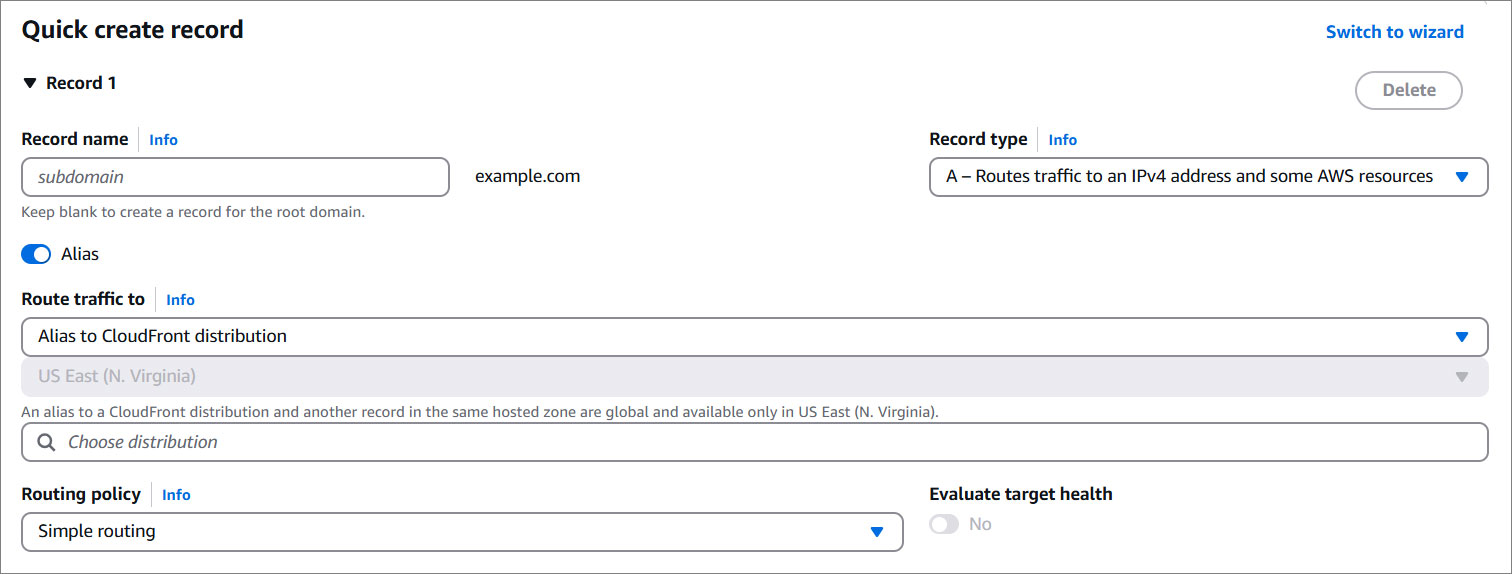
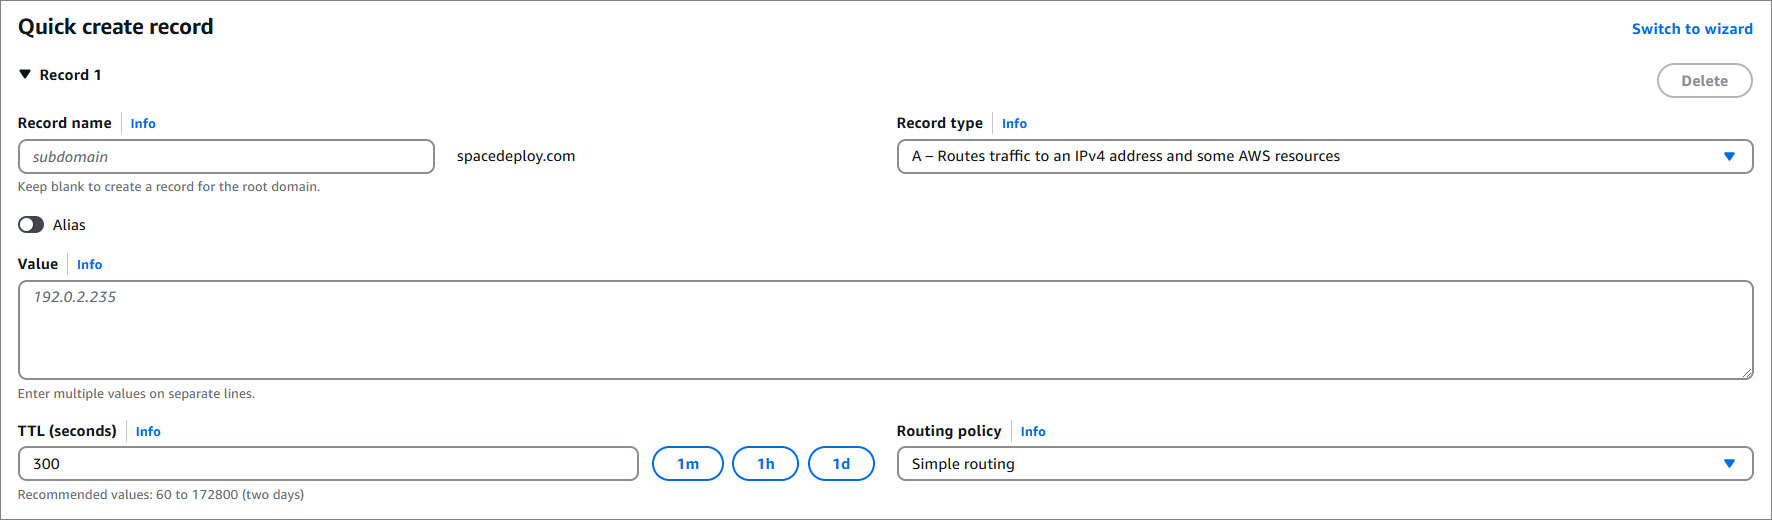
Update WP tutorials.

diff --git a/src/tutorials/add-wordpress-website-part-2/index.md b/src/tutorials/add-wordpress-website-part-2/index.md
@@ -1,40 +1,8 @@
-In part two, we’re cranking up the excitement! You’ll claim your domain, armor up your site with a shiny SSL/TLS certificate, and turbocharge performance with a CDN. Buckle up—the transformation is just getting started!
+Welcome to Part 2 of your WordPress website journey! In this section, we’ll explore the power of a Content Delivery Network (CDN). A CDN is a network of servers spread across the globe, designed to deliver your website’s content faster by storing copies of it closer to your visitors. This means they won’t have to wait as long for your site to load. By adding a CDN to your WordPress site, you'll boost load times, enhance security, and ensure smooth performance for your audience. It’s an essential tool for anyone looking to improve site speed and user experience!
 
-## Step 1: Set Up Your Domain
+## Request your certificate
 
-Now it’s time to stake your claim in the vast wilderness of the internet. Here’s how to tame your domain using AWS Route 53.
-
-1. Log in to your **AWS Management Console**.          
-
-2. Type **Route 53** into the search bar in the Services menu — your trusty GPS for all things AWS.
-
-3. In the Route 53 dashboard, click on **Hosted Zones** (your domain’s future home).
-
-<p><img src="/static/images/common/route-53/route-53-hosted-zones-nav.jpg" alt="Route 53 Left Navigation" style="width: 15%;"></p>
-
-4. Ready to build? Click **Create hosted zone** or choose an existing one if you’ve already started.
-
-<p><img src="/static/images/common/route-53/create-hosted-zones.jpg" alt="Route 53 Create hosted zone" style="width: 80%;"></p>
-
-5. In the **"Domain name"** field, type your chosen domain (e.g., example.com).
-
-<p><img src="/static/images/common/route-53/hosted-zones-config.jpg" alt="Route 53 Domain name" style="width: 80%;"></p>
-
-6. Select **Public hosted zone** because we are all about that public presence.
-
-<p><img src="/static/images/common/route-53/hosted-zones-config-type.jpg" alt="Route 53 Type" style="width: 80%;"></p>
-
-7. Click that glorious orange <span class="text-orange">**Create hosted zone**</span> button, and voilà!
-
-**Congrats!** Your domain is now set up and ready for action.
-
-!!!
-**Pro Tip:** Want to dig deeper? The [AWS Route 53 Documentation](https://docs.aws.amazon.com/Route53/latest/DeveloperGuide/Welcome.html) is your go-to treasure map for advanced configurations.
-!!!
-
-## Step 2: Request Your Certificate
-
-Let’s kick things off by securing your domain with a sleek new certificate!
+First, let’s make your site secure. An SSL/TLS certificate protects your website by encrypting information between your site and visitors. It also shows a “padlock” in the browser to let users know your site is safe. Let’s get that certificate set up!
 
 1. Pop into the AWS Management Console and search for **Certificate Manager** in the Services menu.
 
@@ -52,15 +20,13 @@ Let’s kick things off by securing your domain with a sleek new certificate!
 
 5. Give yourself a high-five and hit <span class="text-orange">**Next**</span>.
 
-## Step 3: Add a CDN
+## Add a CDN
 
 Time to give your site some turbo-charged speed with a Content Delivery Network (CDN).
 
-{% tabs %}
+### Step 1: Create stack
 
-{% tab title="Cloudformation" %}
-
-1. **Launch it:** Click the button below and let CloudFormation work its magic.
+Click the button below and let CloudFormation work its magic.
 
 <a href="https://us-east-1.console.aws.amazon.com/cloudformation/home?region=us-east-1#/stacks/create?stackName=wordpress-cdn&templateURL=https://wordpress-release.s3.us-east-1.amazonaws.com/cloudformation/cloudfront-wordpress.yaml" rel="noopener noreferrer" target="_blank" class="btn-orange-lg mb-2">LAUNCH CDN<span><svg xmlns="http://www.w3.org/2000/svg" viewBox="0 0 16 16" width="20" height="20" fill="#fff"><path d="M3.75 2h3.5a.75.75 0 0 1 0 1.5h-3.5a.25.25 0 0 0-.25.25v8.5c0 .138.112.25.25.25h8.5a.25.25 0 0 0 .25-.25v-3.5a.75.75 0 0 1 1.5 0v3.5A1.75 1.75 0 0 1 12.25 14h-8.5A1.75 1.75 0 0 1 2 12.25v-8.5C2 2.784 2.784 2 3.75 2Zm6.854-1h4.146a.25.25 0 0 1 .25.25v4.146a.25.25 0 0 1-.427.177L13.03 4.03 9.28 7.78a.751.751 0 0 1-1.042-.018.751.751 0 0 1-.018-1.042l3.75-3.75-1.543-1.543A.25.25 0 0 1 10.604 1Z"></path></svg></span></a>
 
@@ -70,11 +36,15 @@ Time to give your site some turbo-charged speed with a Content Delivery Network 
 
 <p><img src="/static/images/tutorials/wordpress/wordpress-create-stack-cdn.jpg" alt="WordPress Pro CDN Create Stack" style="width: 90%;"></p>
 
-2. **Name Your Stack:** Get creative—or keep it simple! Just make sure it’s 1–128 characters, starts with a letter, and skips the symbols.
+### Step 2: Name your stack & add details
+
+Pick a name that works for you—whether it’s fun, simple, or somewhere in between. Just make sure it’s between 1–128 characters, begins with a letter, and doesn’t include any special characters.
 
 <p><img src="/static/images/tutorials/wordpress/wordpress-cdn-stack-name.jpg" alt="WordPress Pro CDN Create Stack" style="width: 50%;"></p>
 
-3. **Fill in Parameters:** Add details like your domain name, certificate ARN, and CMS DNS. The wizard will guide you here.
+### Step 3: Customize your settings
+
+Add details like your domain name, certificate ARN, and CMS DNS. The wizard will guide you here.
 
 <p><img src="/static/images/tutorials/wordpress/wordpress-cdn-stack-parametes.jpg" alt="WordPress Pro CDN Parameters" style="width: 50%;"></p>
 
@@ -84,68 +54,41 @@ CloudFront Certificate ARN | The AWS Certification Manager certificate ARN for t
 Website Domain Name | The domain name of the Wordpress website (e.g. example.com).
 CMS DNS Name | The Wordpress DNS or IP used to login. To find the DNS navigate to **EC2,** click on the respective instance and copy the **Public IPv4 DNS.**
 
-4. **Advanced Options & Tags:** Optional but useful for organizing resources.
+### Step 4: Configure stack options
+
+Optional but useful for organizing resources.
 
 <p><img src="/static/images/quickstart/stack-advanced.jpg" alt="WordPress Pro advanced options" style="width: 50%;"></p>
 
-5. **Review & Submit:** Double-check everything and hit <span class="text-orange">Submit</span>.
+### Step 5: Review and create
 
-{% endtab %}
+Double-check everything and hit <span class="text-orange">**Submit**</span>.
 
-{% endtabs %}
+## Access your CMS
 
-## Step 4: Point Your Domain
-
-Claim your corner of the web using Route 53.
-
-1. Hop over to **Route 53** by searching for it in the Services menu.
-
-2. Find Hosted Zones and click <span class="text-orange">**Create Record**</span>.
-
-3. Enter the subdomain name (like `www` for `www.example.com`), choose A - Routes traffic to IPv4, enable Alias, and select your CloudFront distribution.
-
-<p><img src="/static/images/tutorials/wordpress/create-record.jpg" alt="WordPress Pro CDN Stack" style="width: 90%;"></p>
-
-Name   | Description
----    | ---
-Record Name | Enter the subdomain name but without the domain name. For example, to route traffic for www.example.com, enter only **www**.
-Record Type | Choose the applicable DNS record type. Select **A - Routes traffic to an IPv4 address and some AWS resources**.
-Alias | Enable **Alias** to show more options.
-Route traffic to | Select **Alias to CloudFront distribution**.
-Choose distribution | Select the corresponding CloudFront distribution.
-Routing policy | Select **Simple routing**.
-
-!!!
-**Pro Tip:** Confirm the correct CloudFront distribution by matching its domain name in the CloudFront dashboard.
-!!!
-
-## Step 5: Dive into Your Website
-
-It's time to unlock your WordPress dashboard and bring your website to life! Here's how:
+Now it’s time to log into your WordPress dashboard and start building your website! Here’s how:
 
 1. Head over to **CloudFormation** by typing it into the search bar in your AWS Management Console.
 
 2. Select your WordPress stack from the list.
 
-3. Navigate to the **Outputs** tab, where you'll find all the golden nuggets of information. Copy the **AdminUrl** value—it's your gateway to greatness.
+3. Navigate to the **Outputs** tab, where you'll find the essential details. Copy the **WebsiteURL** value — this is your ticket to your new website.
 
-<p><img src="/static/images/wordpress/wordpress-stack-outputs.jpg" alt="WordPress Pro Stack Outputs" style="width: 62%;"></p>
+<!-- <p><img src="/static/images/wordpress/wordpress-stack-outputs.jpg" alt="WordPress Pro Stack Outputs" style="width: 62%;"></p> -->
 
-4. Open your favorite browser, paste the AdminUrl, and bask in the glory of your WordPress front-end website.
+4. Open your browser and paste the WebsiteURL to see your WordPress front-end website live.
 
-!!!
-**Pro Tip:** Want to take full control? Simply tack on `/wp-admin` to your URL and log in using the credentials listed in the Outputs tab. It's your backstage pass to the WordPress magic.
-!!!
-
-**You're in!** Now it's time to start customizing, creating, and building the site of your dreams. Your digital journey awaits!
+5. For full control simply add `/wp-admin` to your URL and log in using the credentials listed in the Outputs tab.
 
 <hr>
 
-## Step 6: Use Your Fully Qualified Domain Name
+**Congratulations, you did it!** Your website is now fully optimized — blazing fast, secure, and equipped with all the tools to stand out in the digital world. With your sleek SSL certificate and lightning-fast CDN, you have built a solid foundation to impress and engage your visitors. Now it’s time to start customizing, creating, and bringing your vision to life. Get ready to take on the internet!
 
-Tired of typing an IP address to reach your site? Let’s make your Fully Qualified Domain Name (FQDN) the star of the show:
+<!-- ## Access your CMS
 
-1. Log in to **WordPress**. Head to your WordPress dashboard—your site’s command center.
+Now it’s time to log into your WordPress dashboard and start building your website! Here’s how: -->
+
+<!-- 1. Log in to **WordPress**. Head to your WordPress dashboard—your site’s command center.
 
 <p><img src="/static/images/wordpress/wordpress-login-screen.jpg" alt="WordPress Login Screen" style="width: 25%;"></p>
 
@@ -157,12 +100,6 @@ Tired of typing an IP address to reach your site? Let’s make your Fully Qualif
 
 4. Click <span class="text-blue">**Save Changes**</span>.
 
-5. Voilà! Your WordPress is now accessible through your custom FQDN.
-
-Time to bookmark that URL and show it off!
-
-<hr>
-
-**Congratulations, you did it!** Your website is now fully optimized—blazing fast, secure, and equipped with all the tools to stand out in the digital world. Whether it's the sleek SSL certificate or the lightning-fast CDN, you've set up a solid foundation that will have your visitors impressed and engaged. Get ready to take on the internet!
+5. Voilà! Your WordPress is now accessible through your custom FQDN. -->
 
 <!-- <p><img src="/static/images/tutorials/wordpress/wordpress-website.jpg" alt="WordPress Pro Website" style="width: 90%;"></p> -->

diff --git a/src/tutorials/add-wordpress-website part-1/index.md b/src/tutorials/add-wordpress-website part-1/index.md
@@ -1,10 +1,48 @@
-Welcome to your next big adventure! In this first part, we’ll focus on launching your WordPress CMS—the heart and soul of your website. This is where your journey begins, as we set up the foundation that will power your content, engage your audience, and bring your vision to reality!
+Ready to embark on the journey to your very own WordPress-powered website? In this guide, we’ll start by **creating a hosted zone** — staking your claim in the digital world. Then, we’ll move on to **launching WordPress**, **pointing your domain**, and finally, **accessing your WordPress instance** to bring your vision to life. Let’s dive in!
+
+## Create a hosted zone
+
+It’s time to stake your claim in the vast digital wilderness! Let’s use AWS Route 53 to make your domain official and get it ready for action.
+
+1. Log in to your **AWS Management Console**.          
+
+2. Type **Route 53** into the search bar in the Services menu — your trusty GPS for all things AWS.
+
+3. In the Route 53 dashboard, click on **Hosted Zones** (your domain’s future home).
+
+<p><img src="/static/images/common/route-53/route-53-hosted-zones-nav.jpg" alt="Route 53 Left Navigation" style="width: 15%;"></p>
+
+4. Ready to build? Click **Create hosted zone** or choose an existing one if you’ve already started.
+
+<p><img src="/static/images/common/route-53/create-hosted-zones.jpg" alt="Route 53 Create hosted zone" style="width: 80%;"></p>
+
+5. In the **"Domain name"** field, type your chosen domain (e.g., example.com).
+
+<p><img src="/static/images/common/route-53/hosted-zones-config.jpg" alt="Route 53 Domain name" style="width: 80%;"></p>
+
+6. Select **Public hosted zone** because we are all about that public presence.
+
+<p><img src="/static/images/common/route-53/hosted-zones-config-type.jpg" alt="Route 53 Type" style="width: 80%;"></p>
+
+7. Click that glorious orange <span class="text-orange">**Create hosted zone**</span> button, and voilà!
+
+**Congrats!** Your domain is now set up and ready for action.
+
+!!!warning Note:
+Once your hosted zone is created, make sure your domain is properly connected. Here’s what you’ll need to do:
+- **For domains registered with another registrar:** Check out the guide on [Making Amazon Route 53 the DNS service for an existing domain](https://docs.aws.amazon.com/Route53/latest/DeveloperGuide/MigratingDNS.html).
+- **For domains registered with Route 53:** Follow the steps in [Adding or changing name servers and glue records for a domain](https://docs.aws.amazon.com/Route53/latest/DeveloperGuide/domain-name-servers-glue-records.html).
+!!!
+
+!!!
+**Pro Tip:** Want to dig deeper? The [AWS Route 53 Documentation](https://docs.aws.amazon.com/Route53/latest/DeveloperGuide/Welcome.html) is your go-to treasure map for advanced configurations.
+!!!
 
 ## Launch WordPress Pro
 
-The first thing you need to do is to head over to the [AWS Marketplace](https://aws.amazon.com/marketplace/pp/prodview-l5326ck4qjosk?sr=0-4&ref_=beagle&applicationId=AWSMPContessa) and hit that <span class="text-orange">**Subscribe**</span> button. It’s like claiming your spot on the WordPress rocket. Then, come back here, and we’ll guide you through the next steps of your journey!
+The first step is simple — head over to the [AWS Marketplace](https://aws.amazon.com/marketplace/pp/prodview-l5326ck4qjosk?sr=0-4&ref_=beagle&applicationId=AWSMPContessa) and click that <span class="text-orange">**Subscribe**</span> button. It's like securing your seat on the WordPress rocket ship, ready for takeoff. Once you're done, come right back here, and we’ll guide you through the next stages of your adventure!
 
-To launch an instance, follow the CloudFormation Guide. Solodev makes it super simple — just click the Launch button below.
+Ready to launch your WordPress instance? Just follow the CloudFormation Guide. Solodev makes it a breeze — click the Launch button below, and let’s get started!
 
 <a href="https://us-east-1.console.aws.amazon.com/cloudformation/home?region=us-east-1#/stacks/create?stackName=wordpress-pro&templateURL=https://wordpress-release.s3.amazonaws.com/cloudformation/wordpress-pro-linux.yaml" rel="noopener noreferrer" target="_blank" class="btn-orange-lg mb-2">LAUNCH WORDPRESS <span><svg xmlns="http://www.w3.org/2000/svg" viewBox="0 0 16 16" width="20" height="20" fill="#fff"><path d="M3.75 2h3.5a.75.75 0 0 1 0 1.5h-3.5a.25.25 0 0 0-.25.25v8.5c0 .138.112.25.25.25h8.5a.25.25 0 0 0 .25-.25v-3.5a.75.75 0 0 1 1.5 0v3.5A1.75 1.75 0 0 1 12.25 14h-8.5A1.75 1.75 0 0 1 2 12.25v-8.5C2 2.784 2.784 2 3.75 2Zm6.854-1h4.146a.25.25 0 0 1 .25.25v4.146a.25.25 0 0 1-.427.177L13.03 4.03 9.28 7.78a.751.751 0 0 1-1.042-.018.751.751 0 0 1-.018-1.042l3.75-3.75-1.543-1.543A.25.25 0 0 1 10.604 1Z"></path></svg></span></a>
 
@@ -12,11 +50,11 @@ To launch an instance, follow the CloudFormation Guide. Solodev makes it super s
 
 Your CloudFormation template is locked and loaded — just click <span class="text-orange">**Next**</span> to kick things off.
 
-### Step 2: Name Your Stack & Add Details
+### Step 2: Name your stack & add details
 
 Give your stack a name (get creative or keep it simple), then fill in the setup parameters.
 
-### Step 3: Fine-Tune Your Settings
+### Step 3: Fine-tune your settings
 
 #### Network Settings:
 Choose your VPCID, PublicSubnet1ID, PublicSubnet2ID, and KeyName from the dropdowns. Need a refresher? You can [learn more about these here](/quickstart/cms/wordpress/#parameters).
@@ -34,15 +72,33 @@ This part is totally optional, so feel free to skip or explore as needed. If you
 Take a moment to review your settings and ensure everything looks good. Once you're confident, hit <span class="text-orange">**Submit**</span> — and just like that, you're on your way to launching your stack!
 
 !!!
-**Pro tip:** Take a deep breath and relax—this part’s a breeze, but a little patience goes a long way!
+**Pro tip:** Take a deep breath and relax — this part’s a breeze, but a little patience goes a long way!
 !!!
+
+## Point Your Domain
+
+Claim your corner of the web using Route 53.
+
+1. Hop over to **Route 53** by searching for it in the Services menu.
+
+2. Find Hosted Zones and click <span class="text-orange">**Create Record**</span>.
+
+3. Enter the subdomain name (like `www` for `www.example.com`), choose CNAME, and paste your IP.
+
+<p><img src="/static/images/tutorials/wordpress/create-record.jpg" alt="WordPress Pro CDN Stack" style="width: 90%;"></p>
+
+Name   | Description
+---    | ---
+Record Name | Enter the subdomain name but without the domain name. For example, to route traffic for www.example.com, enter only **www**.
+Record Type | Choose the applicable DNS record type. Select **CNAME - Routes traffic to another domain name and some AWS resources**.
+Value | Paste the **IPv4 address**. To find the DNS navigate to **EC2,** click on the respective instance and copy the **Public IPv4 DNS.**
 
 ## Access your WordPress instance
 
-Once your stack is up and running, it’s time to explore! Head to the **Outputs** tab, find the **AdminURL**, and click or copy it. Paste it into your browser, and there you go — your website is live and ready for action!
+Once your stack is up and running, it’s time to explore! Head to your browser and paste your website URL — your WordPress site is live and ready for action!
 
-<hr>
+!!!Note:
+If you're unsure of the URL you used for your stack, simply head to CloudFormation, click on the **Outputs** tab, locate the **WebsiteUrl**, and either click it or copy it to your browser.
+!!!
 
-**Congrats on launching your WordPress CMS!** You've laid the foundation for an amazing website. With your CMS live and ready, it's time to take things to the next level.
-
-In [Part 2](/tutorials/add-wordpress-website-part-2/), we’ll guide you through configuring your domain, securing your site with an SSL/TLS certificate, and boosting performance with a lightning-fast CDN. These steps will help ensure your website is not just functional but also secure, speedy, and polished.
+In [Part 2](/tutorials/add-wordpress-website-part-2/), we’ll focus on enhancing your site’s performance by adding a lightning-fast CDN. This step will supercharge your website, ensuring faster load times and an optimized user experience for visitors around the world.
